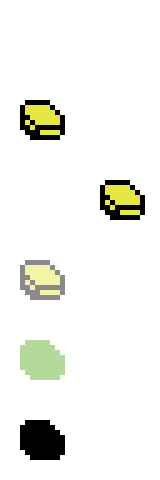
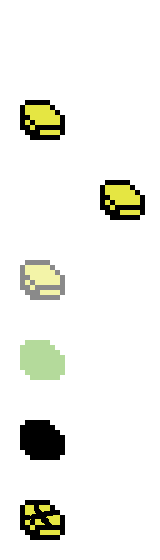
[NEW] Tiles crack when you walk on them [FIX] Tiles don't uncrack when moving back

diff --git a/Schooled 2.0/Schooled/src/Board.cpp b/Schooled 2.0/Schooled/src/Board.cpp
@@ -32,6 +32,10 @@ namespace Board
 			tileSprite->changeAnimation(Animation::AnimationEnum::BLOCKED);
 			break;
 
+		case TileState::CRACKED:
+			tokenSprite->changeAnimation(Animation::AnimationEnum::TOKEN_CRACKED);
+			break;
+
 		case TileState::PLACING:
 			tokenSprite->changeAnimation(Animation::AnimationEnum::TOKEN_PLACE);
 			break;
@@ -61,7 +65,8 @@ namespace Board
 			tokenSprite->changeAnimation(Animation::AnimationEnum::TOKEN_EMPTY);
 		}
 		else if (hasToken && tokenSprite->isIdle() ||
-			hasToken && tokenSprite->getCurrentAnimation() == Animation::AnimationEnum::TOKEN_GHOST)
+			hasToken && tokenSprite->getCurrentAnimation() == Animation::AnimationEnum::TOKEN_GHOST ||
+			hasToken && tokenSprite->getCurrentAnimation() == Animation::AnimationEnum::TOKEN_CRACKED)
 		{
 			tokenSprite->changeAnimation(Animation::AnimationEnum::IDLE);
 		}
@@ -192,6 +197,39 @@ namespace Board
 		}
 	}
 
+	void Board::crackToken(COORD c, bool cracked)
+	{
+		crackToken(c.Y, c.X, cracked);
+	}
+
+	void Board::crackToken(unsigned int h, unsigned int w, bool cracked)
+	{
+		if (boardTiles[h][w].hasToken)
+		{
+			if (cracked)
+			{
+				boardTiles[h][w].changeState(TileState::CRACKED, getSide());
+			}
+			else
+			{
+				boardTiles[h][w].changeState(TileState::IDLE, getSide());
+			}
+		}
+	}
+
+	void Board::destroyCrackedTokens()
+	{
+		for (int h = 0; h < Stage::BOARD_HEIGHT; h++)
+		{
+			for (int w = 0; w < Stage::BOARD_WIDTH; w++)
+			{
+				if (boardTiles[h][w].state == TileState::CRACKED)
+				{
+					destroyToken(COORD{ w, h });
+				}
+			}
+		}
+	}
 
 	void Board::clearTokens()
 	{
@@ -304,7 +342,8 @@ namespace Board
 			{
 				// If the tiles are doing some sort of change in state, it's acting
 				if (boardTiles[h][w].state == TileState::COMPLETING ||
-					boardTiles[h][w].state == TileState::PLACING)
+					boardTiles[h][w].state == TileState::PLACING ||
+					boardTiles[h][w].state == TileState::DESTROYING)
 				{
 					setActing(true);
 				}

diff --git a/Schooled 2.0/Schooled/src/Player.cpp b/Schooled 2.0/Schooled/src/Player.cpp
@@ -611,9 +611,12 @@ namespace Player
 		currentAttack->currentCooldown = currentAttack->cooldown;
 		(*this).sprite->changeAnimation(static_cast<Animation::AnimationEnum>(window.getActiveIconIndex()));
 		(*this).stats.lockedAP += (*this).boardPtr->updatePath() + 1;
+		stats.currentAP = stats.maxAP - stats.lockedAP;
+
+		// Update the board
 		(*this).boardPtr->setPlayerFirstPos(boardPtr->getPlayerlocation());
 		(*this).boardPtr->updatePath();
-		stats.currentAP = stats.maxAP - stats.lockedAP;
+		(*this).boardPtr->destroyCrackedTokens();
 		currentAttack = nullptr;
 		std::cout << "Current AP: " << stats.currentAP << std::endl;
 
@@ -628,7 +631,7 @@ namespace Player
 
 	void Player::passTurn()
 	{
-
+		boardPtr->destroyCrackedTokens();
 	}
 
 	void Player::useSpecial(Player& enemy)
@@ -723,11 +726,18 @@ namespace Player
 			return;
 		}
 
+		// If the spot it's moving onto is cracked, and is standing on a cracked, set the current one to not be cracked
+		if (boardPtr->getTileState(boardPtr->getPlayerlocation()) == Board::TileState::CRACKED &&
+			boardPtr->getTileState(boardPtr->getPlayerlocation() + change) == Board::TileState::CRACKED)	
+		{
+			boardPtr->crackToken(boardPtr->getPlayerlocation(), false);
+		}
+
 		// Move the character on the grid
 		boardPtr->setPlayerLocation(boardPtr->getPlayerlocation() + change);
 		stats.currentAP = stats.maxAP - stats.lockedAP - boardPtr->updatePath();
 
-		boardPtr->destroyToken(boardPtr->getPlayerlocation());
+		boardPtr->crackToken(boardPtr->getPlayerlocation());
 
 		// Add a path
 		Path::Path *tempPath = new Path::Path(
@@ -820,6 +830,7 @@ namespace Player
 		updateIconCooldown();
 
 		boardPtr->setPlayerFirstPos(boardPtr->getPlayerlocation());
+		//boardPtr->setTileState(boardPtr->getPlayerlocation(), Board::TileState::CRACKED);
 
 		stats.currentAP = stats.maxAP;
 		stats.lockedAP = 0;

diff --git a/Schooled 2.0/include/Board.h b/Schooled 2.0/include/Board.h
@@ -32,6 +32,7 @@ namespace Board
 		IDLE,
 		SELECTED,
 		BLOCKED,
+		CRACKED,
 		PLACING,
 		COMPLETING,
 		DESTROYING,
@@ -84,6 +85,13 @@ namespace Board
 		void destroyToken(unsigned int h, unsigned int w);
 		void destroyToken(COORD c);
 
+		// Set the cracked setting of the token.
+		void crackToken(unsigned int h, unsigned int w, bool cracked = true);
+		void crackToken(COORD c, bool cracked = true);
+
+		// Clear all cracked tokens
+		void destroyCrackedTokens();
+
 		// Adds tokens onto the board
 		inline Board& operator+=(Board const&);
 		inline Board const operator+(Board const&) const;
@@ -125,6 +133,9 @@ namespace Board
 
 		// Get the tile vector
 		Vector::Vector2 getTilePos(COORD location) const { return boardTiles[location.Y][location.X].pos; }
+
+		// Get the tile state
+		TileState getTileState(COORD location) const { return boardTiles[location.Y][location.X].state; }
 
 	private:
 		// Helper function returns tile at number position

diff --git a/Schooled 2.0/include/AnimationConstants.h b/Schooled 2.0/include/AnimationConstants.h
@@ -19,6 +19,7 @@ namespace Animation
 		TOKEN_GHOST,
 		TOKEN_DESTROY,
 		TOKEN_COMPLETE,
+		TOKEN_CRACKED,
 		COOLDOWN_1,
 		COOLDOWN_2,
 		BACKWARDS,
@@ -50,6 +51,7 @@ namespace Animation
 		{ "TOKEN_GHOST", AnimationEnum::TOKEN_GHOST },
 		{ "TOKEN_DESTROY", AnimationEnum::TOKEN_DESTROY },
 		{ "TOKEN_COMPLETE", AnimationEnum::TOKEN_COMPLETE },
+		{ "TOKEN_CRACKED", AnimationEnum::TOKEN_CRACKED },
 		{ "COOLDOWN_1", AnimationEnum::COOLDOWN_1 },
 		{ "COOLDOWN_2", AnimationEnum::COOLDOWN_2 },
 		{ "BACKWARDS", AnimationEnum::BACKWARDS },

diff --git a/Schooled 2.0/Schooled/Source.cpp b/Schooled 2.0/Schooled/Source.cpp
@@ -24,7 +24,7 @@ int main(int argc, char **argv)
 	}
 
 	// Load the first state
-	game.ChangeState(MenuState::MenuState::Instance());
+	game.ChangeState(BattleState::BattleState::Instance());
 
 	// Main game loop
 	while (game.Running())
